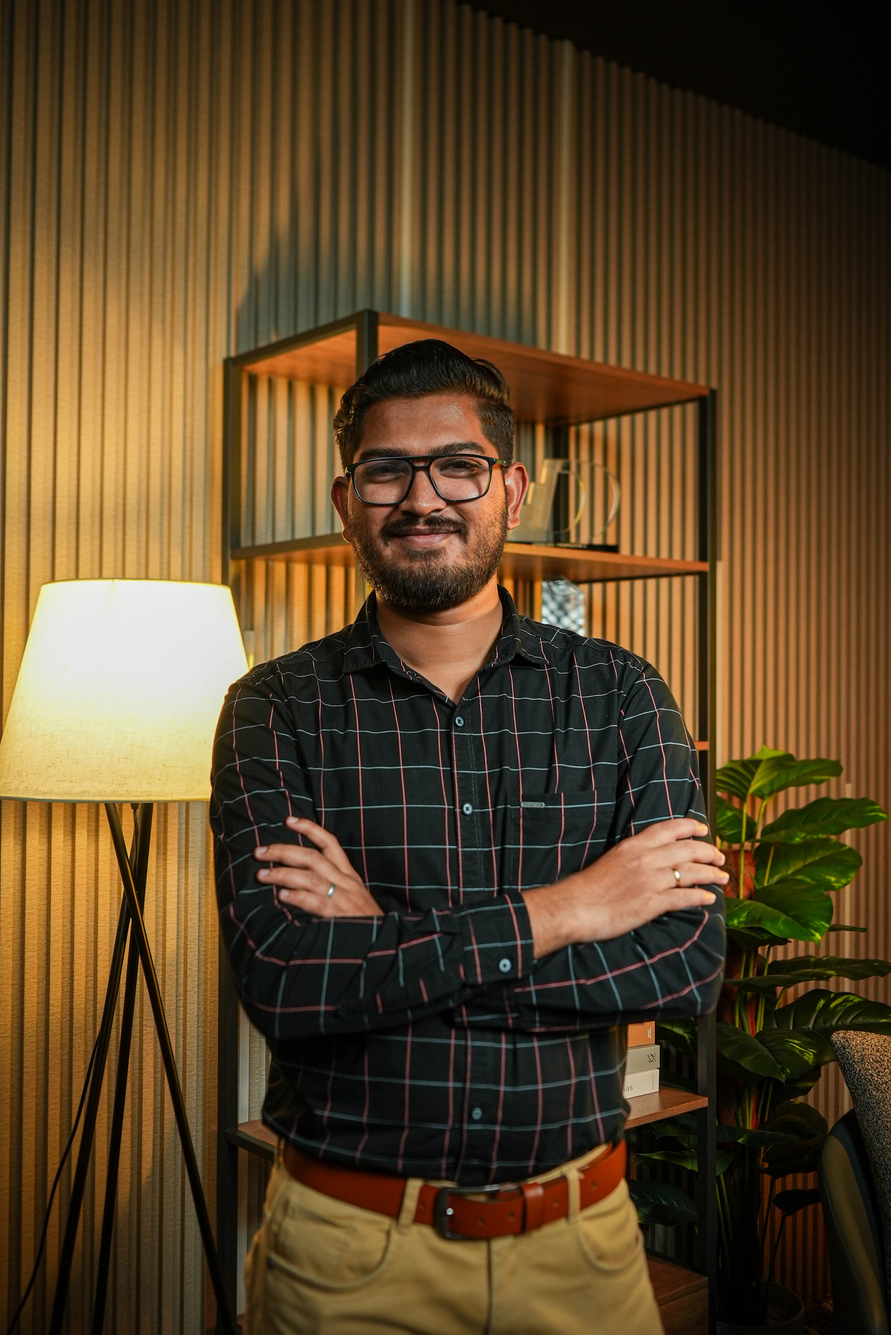
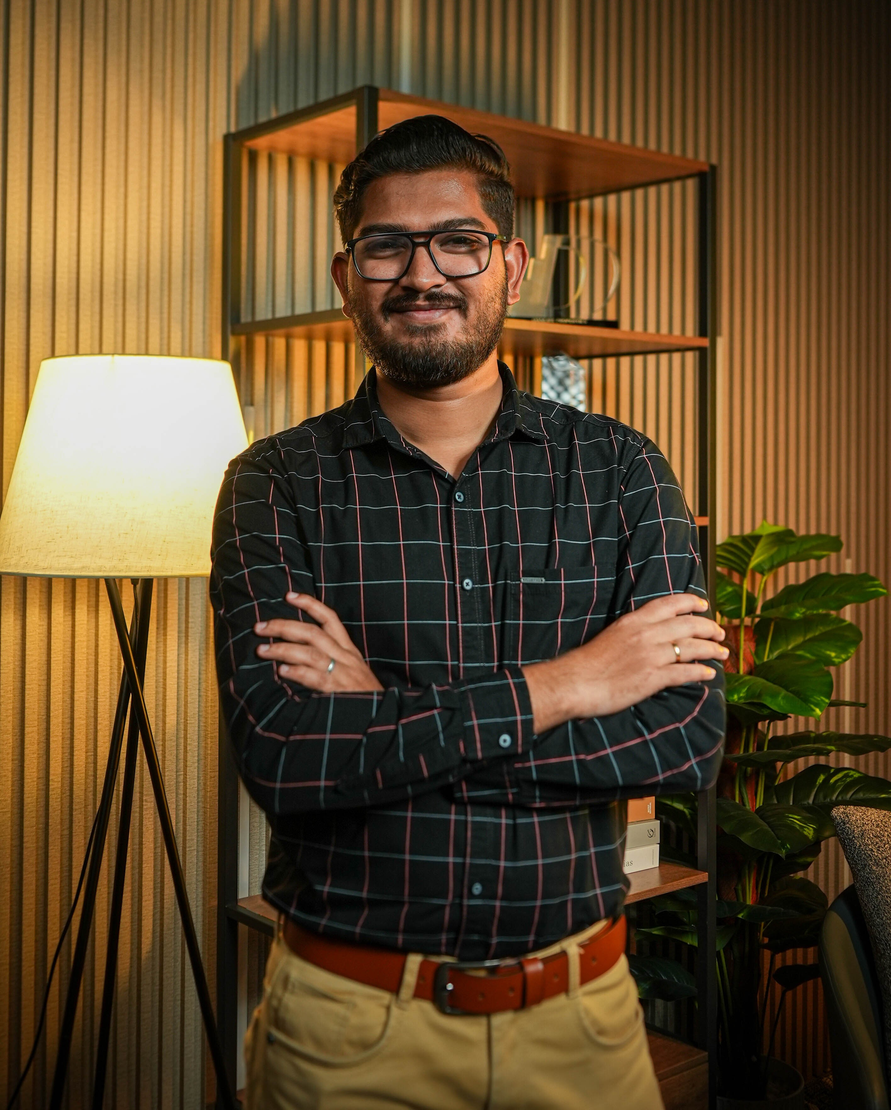
Latest Commit

diff --git a/components/sections-new/hero.tsx b/components/sections-new/hero.tsx
@@ -274,7 +274,7 @@ export function HeroSection() {
                   animate={{ y: [0, -10, 0] }}
                   transition={{ duration: 3, repeat: Infinity }}
                 >
-                  <span className='text-sm font-semibold'>5+ Years Exp</span>
+                  <span className='text-sm font-semibold'>3+ Years Exp</span>
                 </motion.div>
                 <motion.div
                   className='absolute -bottom-4 -left-4 px-4 py-2 rounded-lg bg-card/80 backdrop-blur-sm border border-border shadow-lg'

diff --git a/components/sections-new/about.tsx b/components/sections-new/about.tsx
@@ -40,7 +40,7 @@ export function AboutSection() {
                   <div className='relative group'>
                     <div className='relative rounded-2xl overflow-hidden border border-border/50 shadow-2xl'>
                       <Image
-                        src='/images/profile-aboutus-3.jpeg'
+                        src='/images/profile-aboutus-5.jpeg'
                         alt='Adarsh Vinothan'
                         width={500}
                         height={500}
